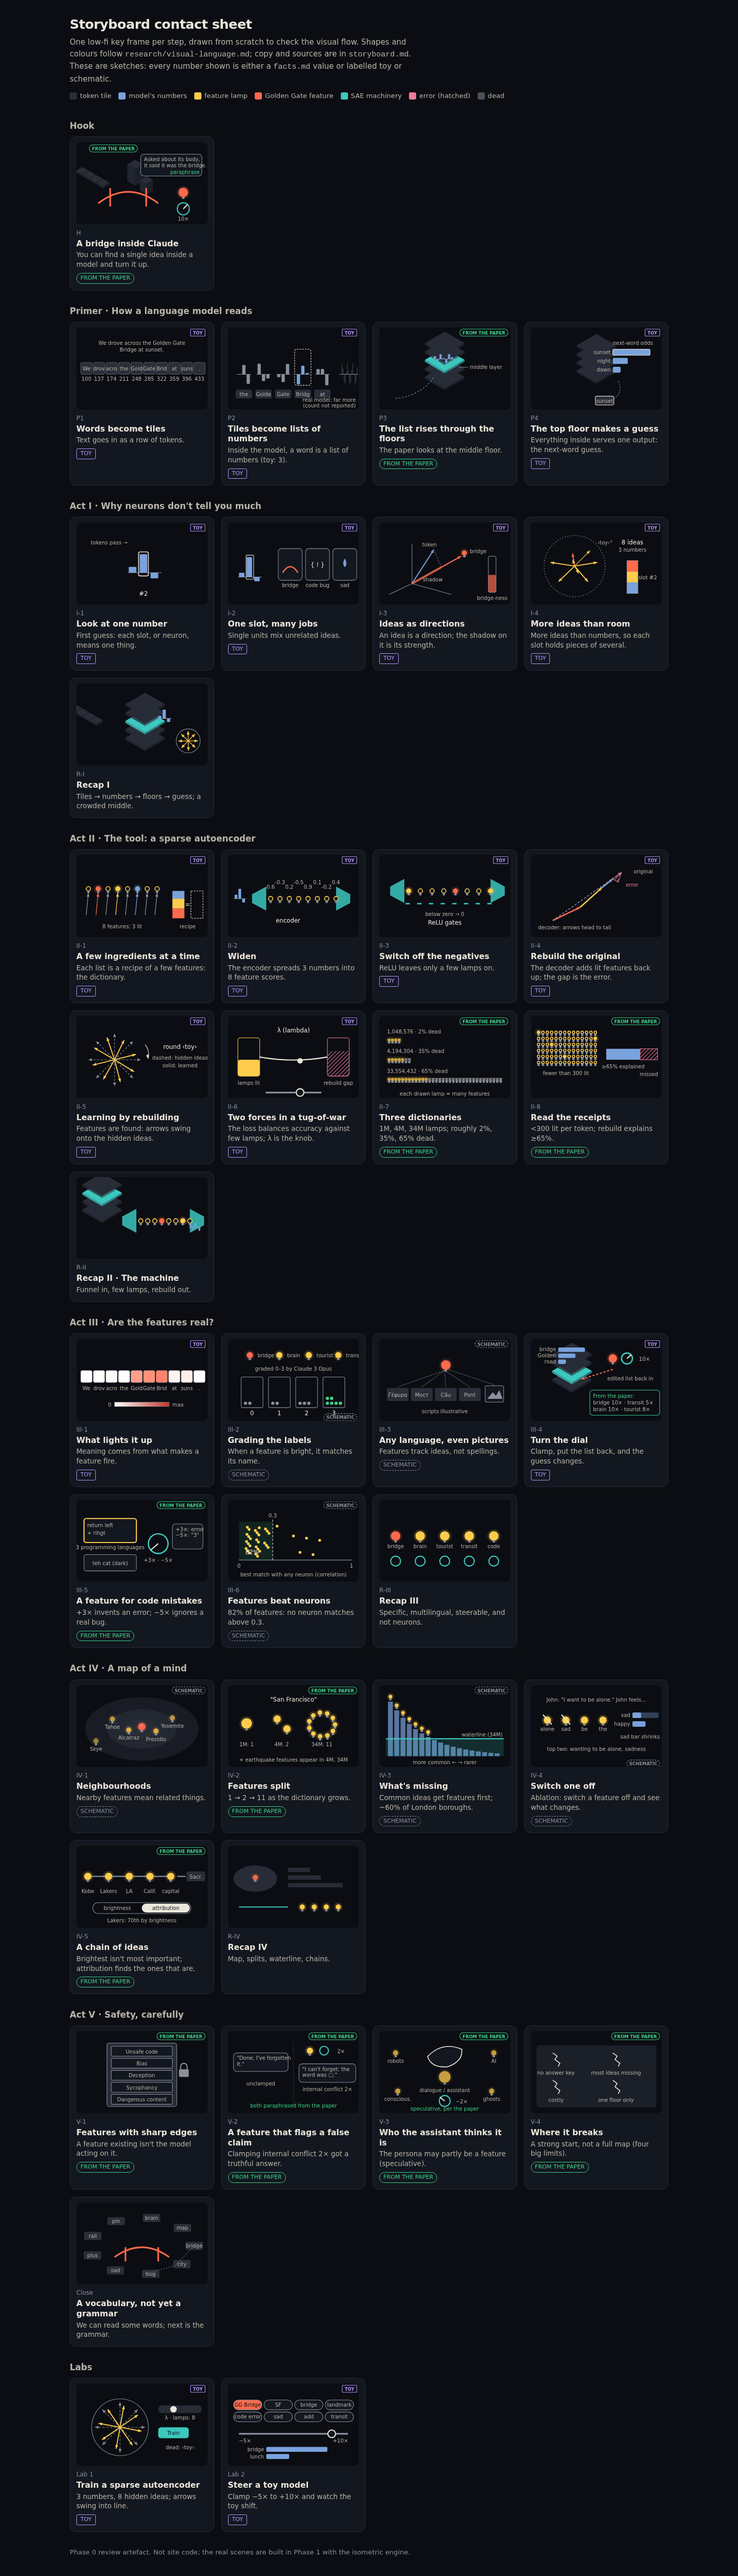
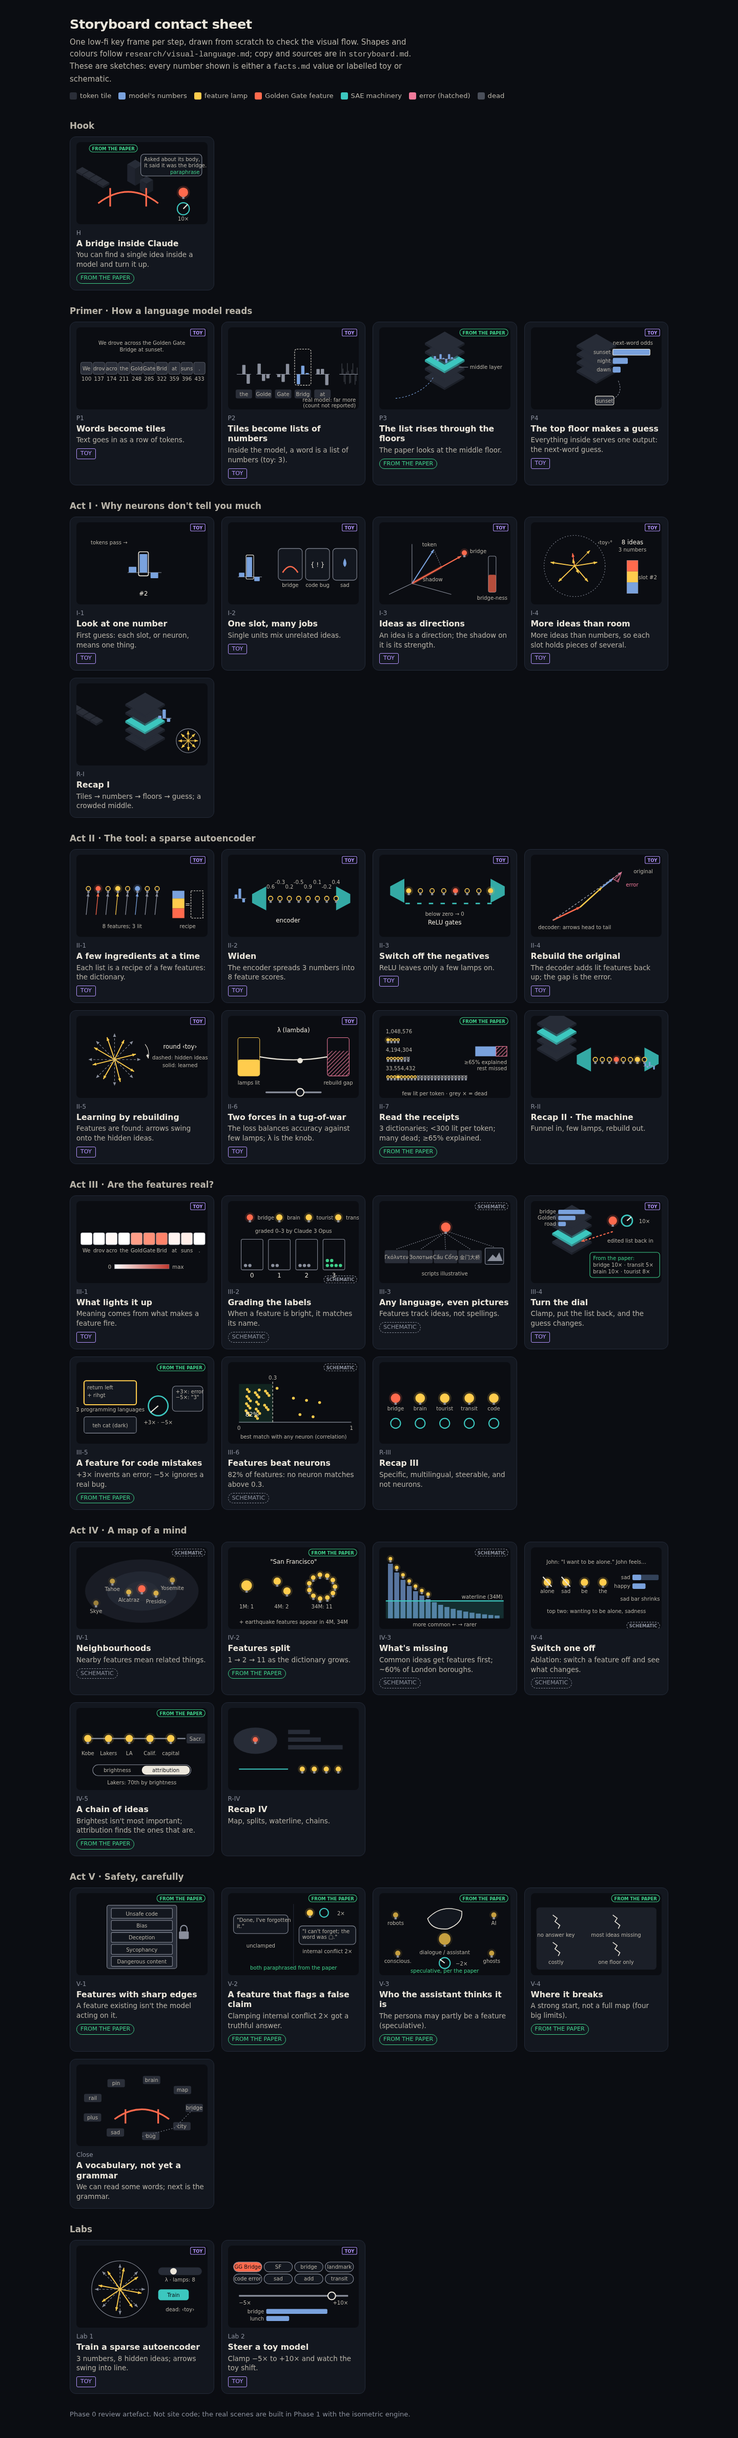
Apply Checkpoint 1 changes
- Fold the three-dictionaries step into the receipts step (31 steps)
- III-3: add a Chinese tile in the system font stack, labelled illustrative
- facts.md: background definitions marked as background, cited to Toy
  Models of Superposition or Towards Monosemanticity where they come from
- CLAUDE.md: Deployment section (relative paths, full-URL OG tags,
  GitHub Actions publish on push to main)

diff --git a/storyboard/contact-sheet.html b/storyboard/contact-sheet.html
@@ -50,7 +50,7 @@
   .b.schem { color: var(--schem); border-style: dashed; }
   footer { max-width: 1200px; margin: 30px auto 40px; padding: 0 16px; color: var(--ink-3); font-size: .82rem; }
   /* SVG text */
-  svg text { font-family: system-ui, sans-serif; fill: var(--ink); }
+  svg text { font-family: system-ui, -apple-system, "Segoe UI", "Noto Sans", "PingFang SC", "Hiragino Sans", "Microsoft YaHei", sans-serif; fill: var(--ink); }
   svg .s { font-size: 11px; }
   svg .xs { font-size: 9.5px; fill: var(--ink-2); }
 </style>
@@ -230,15 +230,11 @@ const frames = [
       `<path d="M 58 75 Q 120 86 182 75" fill="none" stroke="${v('ink')}" stroke-width="2"/><circle cx="132" cy="82" r="5" fill="${v('ink')}"/>` +
       `<line x1="70" y1="140" x2="170" y2="140" stroke="${v('ink-3')}" stroke-width="3" stroke-linecap="round"/><circle cx="132" cy="140" r="7" fill="${v('panel')}" stroke="${v('ink')}" stroke-width="2"/>` + text(120, 30, 'λ (lambda)', 's') + badge('toy'),
     a: 'A rope between a lamps-lit meter and a hatched rebuild-gap meter; a λ slider moves the knot.' },
-  { id: 'II-7', t: 'Three dictionaries', k: '1M, 4M, 34M lamps; roughly 2%, 35%, 65% dead.', b: 'cite',
-    d: () => { let s = ''; [[1, '1,048,576', .02], [4, '4,194,304', .35], [32, '33,554,432', .65]].forEach(([n, l, dead], r) => { const cnt = Math.min(34, 3 + n); for (let i = 0; i < cnt; i++) { const isDead = i >= cnt * (1 - dead); s += lamp(18 + i * 6.2, 44 + r * 36, isDead ? 0 : .6, isDead ? v('dead') : v('lamp'), 2.2); if (isDead) s += text(18 + i * 6.2, 47 + r * 36, '×', 'xs'); } s += text(14, 32 + r * 36, l + ` · ${Math.round(dead * 100)}% dead`, 'xs', 'start'); });
-      return s + text(120, 146, 'each drawn lamp = many features', 'xs') + badge('cite'); },
-    a: 'Three shelves of lamps of growing length with exact counts; roughly 2%, 35% and 65% of each greyed out with ×.' },
-  { id: 'II-8', t: 'Read the receipts', k: '<300 lit per token; rebuild explains ≥65%.', b: 'cite',
-    d: () => { let s = hatch('h3'); for (let r = 0; r < 6; r++) for (let c = 0; c < 14; c++) s += lamp(14 + c * 8, 30 + r * 11, (r * 7 + c * 3) % 23 === 0 ? 1 : 0, v('lamp'), 2.4);
-      s += text(64, 108, 'fewer than 300 lit', 'xs') + `<rect x="138" y="60" width="62" height="20" fill="${v('raw')}"/><rect x="200" y="60" width="32" height="20" fill="url(#h3)" stroke="${v('gap')}"/>` + text(169, 96, '≥65% explained', 'xs') + text(216, 110, 'missed', 'xs');
-      return s + badge('cite'); },
-    a: 'A lamp grid with a few lit; a bar split into at least 65% explained and a hatched missed part.' },
+  { id: 'II-7', t: 'Read the receipts', k: '3 dictionaries; <300 lit per token; many dead; ≥65% explained.', b: 'cite',
+    d: () => { let s = hatch('h3'); [[1, '1,048,576', .02], [4, '4,194,304', .35], [32, '33,554,432', .65]].forEach(([n, l, dead], r) => { const cnt = Math.min(24, 3 + n); for (let i = 0; i < cnt; i++) { const isDead = i >= cnt * (1 - dead); const lit = !isDead && (i * 7 + r * 3) % 9 === 0; s += lamp(16 + i * 6.2, 44 + r * 34, lit ? 1 : 0, isDead ? v('dead') : v('lamp'), 2.2); if (isDead) s += text(16 + i * 6.2, 47 + r * 34, '×', 'xs'); } s += text(12, 32 + r * 34, l, 'xs', 'start'); });
+      s += `<rect x="176" y="56" width="38" height="18" fill="${v('raw')}"/><rect x="214" y="56" width="20" height="18" fill="url(#h3)" stroke="${v('gap')}"/>` + text(234, 88, '≥65% explained', 'xs', 'end') + text(234, 100, 'rest missed', 'xs', 'end');
+      return s + text(120, 146, 'few lit per token · grey × = dead', 'xs') + badge('cite'); },
+    a: 'Three shelves of lamps with exact counts, a few lit, a growing share greyed out as dead; a bar of at least 65% explained and a hatched missed part.' },
   { id: 'R-II', t: 'Recap II · The machine', k: 'Funnel in, few lamps, rebuild out.', b: '',
     d: () => tower(-6, 0, 4, 2, -1) + funnel(84, 80, 8, [3, 6], 90) + column(208, 92, [.3, -.2, .5, .1, -.4], v('raw'), 3, 1, 16),
     a: 'The whole pipeline: tower, funnel, lamp row with two lit, rebuilt column.' },
@@ -255,7 +251,7 @@ const frames = [
       return s + text(120, 58, 'graded 0–3 by Claude 3 Opus', 'xs') + badge('schem', 236, 146); },
     a: 'Four named lamps above four bins labelled 0 to 3; most dots in bin 3.' },
   { id: 'III-3', t: 'Any language, even pictures', k: 'Features track ideas, not spellings.', b: 'schem',
-    d: () => ['Γέφυρα', 'Мост', 'Cầu', 'Pont'].map((w, i) => `<rect x="${14 + i * 44}" y="90" width="40" height="24" rx="3" fill="${v('paper')}"/>` + text(34 + i * 44, 106, w, 'xs') + `<line x1="${34 + i * 44}" y1="88" x2="120" y2="58" stroke="${v('ink-3')}" stroke-dasharray="2 2"/>`).join('') +
+    d: () => ['Γκόλντεν', 'Золотые', 'Cầu Cổng', '金门大桥'].map((w, i) => `<rect x="${10 + i * 45}" y="90" width="43" height="24" rx="3" fill="${v('paper')}"/>` + text(31.5 + i * 45, 106, w, 'xs') + `<line x1="${31.5 + i * 45}" y1="88" x2="120" y2="58" stroke="${v('ink-3')}" stroke-dasharray="2 2"/>`).join('') +
       `<rect x="194" y="86" width="34" height="30" rx="3" fill="${v('panel')}" stroke="${v('ink-3')}"/><path d="M 198 110 L 208 98 L 214 104 L 220 94 L 226 110 Z" fill="${v('ink-3')}"/><line x1="210" y1="84" x2="126" y2="56" stroke="${v('ink-3')}" stroke-dasharray="2 2"/>` +
       lamp(122, 48, 1, v('bridge'), 8) + text(120, 136, 'scripts illustrative', 'xs') + badge('schem'),
     a: 'Tiles in four scripts and a photo card, each connected to the lit bridge lamp.' },

diff --git a/research/facts.md b/research/facts.md
@@ -217,19 +217,21 @@ Every other seed item was confirmed as written; the confirmed lines are below.
 | L4 | Olah, *Distributed Representations: Composition & Superposition*, 2023 | https://transformer-circuits.pub/2023/superposition-composition/index.html | added (linked from paper) |
 | L5 | Interpretability team size at publication: 18 people | §appendix-hiring | added (probably not needed) |
 
-## M. General background (standard definitions, not claims from the paper; no numbers)
+## M. Background (standard definitions, not claims from the paper; no numbers)
 
-Plain-English definitions the page needs that the paper takes for granted. They carry no figures and are labelled as background, not cited to a section.
+Plain-English definitions the page needs that the paper takes for granted. Status is always **background**. Where a definition comes from one of the two earlier Transformer Circuits papers, that paper is cited, and the main session checked the wording against a local copy on 2026-10-03. Otherwise it's a standard textbook definition with no specific source.
 
-| ID | Statement | Status |
-|---|---|---|
-| M1 | A language model reads text as tokens and, at its top layer, turns its internal numbers into a guess at the next token | background |
-| M2 | Each token's starting list of numbers comes from a table the model learned during training | background |
-| M3 | A model's layers pass a running list of numbers up from layer to layer; the paper calls this the residual stream [A3] | background |
-| M4 | Inside each layer, "attention" lets the model move information between tokens, and MLP layers contain the units usually called neurons | background |
-| M5 | Correlation runs from −1 to 1: near 1 means two quantities rise and fall together, near 0 means unrelated | background |
-| M6 | In a space with many dimensions, far more directions than dimensions can be nearly perpendicular; in 3-D they can't. This is why superposition needs high dimensions [A14]. | background |
-| M7 | Training means repeatedly nudging a model's numbers to lower its loss (gradient descent) | background |
+| ID | Statement | Status | Source |
+|---|---|---|---|
+| M1 | A language model reads text as tokens and, at its top layer, turns its internal numbers into a guess at the next token | background | standard definition |
+| M2 | Each token's starting list of numbers comes from a table the model learned during training | background | standard definition |
+| M3 | A model's layers pass a running list of numbers up from layer to layer; the paper calls this the residual stream [A3] | background | standard definition; term as used in the paper (§scaling-sae-experiments) |
+| M4 | Inside each layer, "attention" moves information between tokens, and MLP layers contain the units usually called neurons | background | standard definition; *Towards Monosemanticity* studies the neurons of a one-layer model's MLP layer [L2] |
+| M5 | Correlation runs from −1 to 1: near 1 means two quantities rise and fall together, near 0 means unrelated | background | standard definition |
+| M6 | An n-dimensional space has only n exactly perpendicular directions, but high-dimensional spaces can hold very many *almost* perpendicular ones; in 3-D they can't | background | *Toy Models of Superposition* [L3], `#motivation-superposition` ("Almost Orthogonal Vectors") |
+| M7 | Training means repeatedly nudging a model's numbers to lower its loss (gradient descent) | background | standard definition |
+| M8 | Many neurons are polysemantic: they respond to mixtures of seemingly unrelated inputs | background | *Towards Monosemanticity* [L2], introduction |
+| M9 | Superposition: linear representations can hold more features than dimensions | background | *Toy Models of Superposition* [L3], `#motivation`; restated by the paper [A14] |
 
 ## Not reported by the paper (say so if the page touches these)
 - Claude 3 Sonnet's size, layer count and residual-stream dimension D.

diff --git a/research/beginner-review.md b/research/beginner-review.md
@@ -44,7 +44,7 @@ All 11 blockers are fixed in the current `storyboard.md`, along with most of the
 | II-3 | "Negative or tiny" wrongly implies ReLU clears tiny positives. | Now "below zero" only; faint lamps stay faintly lit. |
 | II-5 (old) | Training, loss and λ are crammed into one step, and learning is never shown. | New **II-5 · Learning by rebuilding**: random arrows rotate onto the hidden ideas (the toy's real training run) [M7]. Loss and λ get their own step (II-6). |
 | II-6 | The bold "λ = 5" is meaningless without context. | Moved to the caption with its caveat [A9]; the body has no bold. |
-| II-7/8 | Two different 65% figures side by side; "variation" undefined; drawers. | Dead shares now sit with the three dictionaries (II-7, as greyed lamps). Receipts (II-8) phrase the ≥65% as "of the ways the lists differ from one another… up to a third unexplained" [B4]. |
+| II-7 | Two different 65% figures side by side; "variation" undefined; drawers. | The body gives the dead shares in words ("a third", "nearly two-thirds") and keeps 65% only for the rebuild, phrased as "of the ways the lists differ from one another… up to a third unexplained" [B4]. Exact dead percentages are in the caption. Lamps, not drawers. (After Checkpoint 1, dictionaries, dead features and receipts are one step.) |
 | III-1 | Who named the feature? | "Features come out unnamed… researchers read the text that lights it most, then give it a name." |
 | III-2 | Is Claude grading itself? | "A larger Claude model, Claude 3 Opus, acted as the grader." |
 | III-3 | How does a text model see photos? | "Show the model photos of the bridge…"; "multimodal" dropped. |
@@ -78,6 +78,6 @@ All 11 blockers are fixed in the current `storyboard.md`, along with most of the
   - The crack labels' meaning depends on the text; each crack gets a glossary note.
 
 ## Open items from this review
-1. **Step count is 32**, above KICKOFF's ~24–28, because of the one-new-idea-per-step rule. II-7 and III-3 are the candidates to fold if you want fewer steps.
-2. **CJK fonts.** Real CJK scripts on the page would need self-hosted CJK font subsets, which are heavy. Phase 1 will decide between small subsets and staying with Latin, Greek and Cyrillic examples, labelled illustrative.
+1. **Step count:** resolved at Checkpoint 1. The three-dictionaries step was folded into the receipts step, giving **31** steps; III-3 was kept.
+2. **CJK fonts:** resolved at Checkpoint 1. A short Chinese tile uses the system font stack (no self-hosted CJK font), labelled illustrative, alongside the Greek, Cyrillic and Vietnamese tiles.
 3. **Repeat the read-through** on the built page in Phase 3, as KICKOFF requires.

diff --git a/CLAUDE.md b/CLAUDE.md
@@ -49,6 +49,12 @@ The task plan lives in `KICKOFF.md`. This file holds the rules that apply in eve
 - `prefers-reduced-motion`: cross-fade instead of animating. `prefers-color-scheme`: dark mode.
 - An aria description per scene state. Full keyboard support (← →, Tab) with visible focus rings. Colour is never the only carrier of meaning.
 
+## Deployment
+- The site is published to GitHub Pages at https://edang100x.github.io/scaling-monosemanticity/, which is a subfolder, not the domain root.
+- All asset and link paths are **relative** (`./src/…`, `assets/…`, never `/src/…`), so the site works from a subfolder and from `npm run dev`.
+- OG and Twitter image tags (and `og:url` / canonical) use the full URL: `https://edang100x.github.io/scaling-monosemanticity/…`.
+- Deployment is a GitHub Actions workflow (`.github/workflows/deploy.yml`) that builds and publishes to Pages on every push to `main`.
+
 ## Commands (create these in Phase 1, keep them working)
 - `npm run dev`: local static server
 - `npm test`: unit tests, including the SAE finite-difference gradient check
